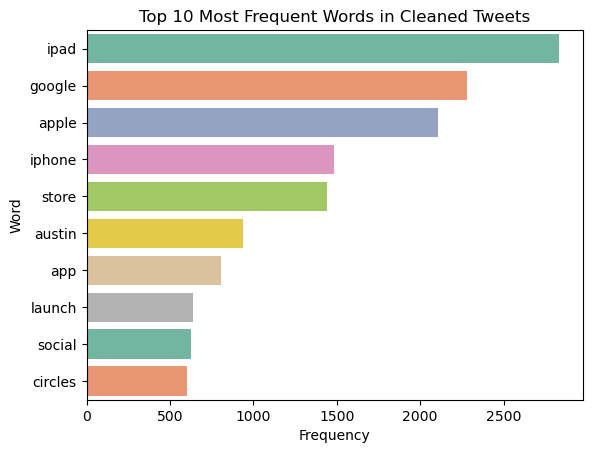
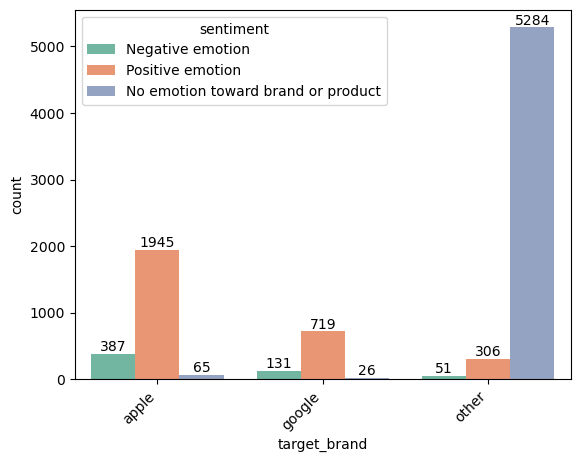
Created Image folder

diff --git a/README.md b/README.md
@@ -20,8 +20,9 @@ This project performs sentiment analysis on Twitter data to classify tweets into
 - **Positive Emotion** – Tweets expressing satisfaction, excitement, or favorable opinions about a brand or product.
 - **Negative Emotion** – Tweets expressing frustration, disappointment, or criticism toward a brand or product.
 - **No Emotion Toward Brand or Product** – Neutral tweets that mention brands or products without expressing a clear positive or negative sentiment
+- **i Cann't tell** - Tweets preferring not to give any sentiment.
 
-![alt text](image.png)
+![alt text](image-1.png)
 
 Multiple machine learning models were trained and evaluated to identify the best-performing approach for real-world social media sentiment classification. The project demonstrates how natural language processing (NLP) and machine learning can be applied to extract actionable insights from unstructured social media data.
 
@@ -92,7 +93,7 @@ The models were evaluated using two primary metrics:
 - **Accuracy** – The proportion of total correct predictions. Useful but can be misleading when classes are imbalanced.
 - **Macro F1 Score** – The average of F1 scores across all three classes, giving equal weight to positive, negative, and neutral categories. This is a more reliable metric for imbalanced datasets.
 
-![alt text](image-1.png)
+![alt text](image-4.png)
 
 | Model | Accuracy | Macro F1 Score |
 |-------|----------|----------------|
@@ -134,7 +135,7 @@ This project used **global feature importance** and **LIME** to explain model pr
 The top 10 features (text + brand) with their weights. Negative weights push toward **Negative** sentiment, positive weights push toward **Positive** sentiment.
 
 ![alt text](image-5.png)
-
+![alt text](image-6.png)
 ### Key Findings
 
 * Positive Emotion Class: Strongest associations are "giving" (1.8), "wow" (1.5), "great" (1.3), "awesome" (1.1), "cool" (1.0), and "fun" (0.8). Negative words like "hate" (-2.6) and "fail" (-1.8) are correctly pushed away.
@@ -186,6 +187,7 @@ The following example shows a tweet classified by the model with prediction prob
 - Low probability for negative (5%) and positive (27%) confirms the neutral classification.
 
 ### Concluion
+
 Twitter is a valuable real-time source of consumer opinions on tech brands. Most tweets are neutral, but the sentiment that appears is highly informative.
 
 Positive sentiment ties to favorable experiences, with words like love, great, and excellent reflecting organic brand advocacy.
@@ -193,6 +195,7 @@ Positive sentiment ties to favorable experiences, with words like love, great, a
 Negative sentiment is driven by technical issues (crash, broken, problem). Negative tweets are harder to classify due to sarcasm, abbreviations, and limited context.
 
 ### Recommendation
+
 Organizations should track negative keywords like crash and broken in real time to detect issues early, prioritize technical improvements since negative sentiment is largely tied to software problems, leverage positive tweets to guide marketing, and enhance customer support by responding quickly on Twitter. Future work should address class imbalance using resampling or class weighting, incorporate advanced NLP models like BERT to better capture sarcasm and context, expand features to include emojis and hashtags, and conduct periodic sentiment monitoring to track shifts after product launches or updates.
 
 